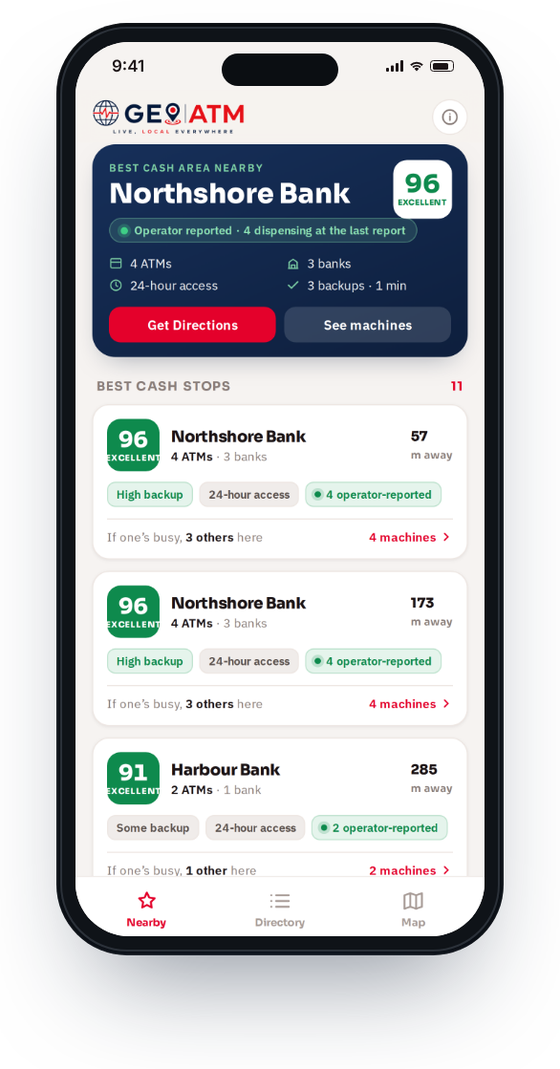
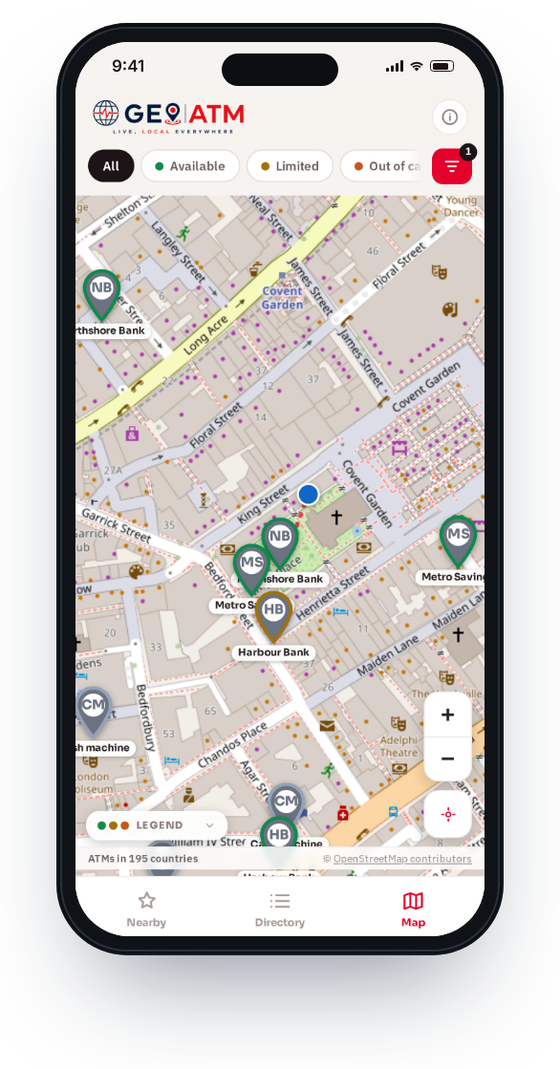
Homepage hero: the real finder over a real map
The phone shows the finder giving directions to the best cash area on real
Covent Garden streets, each machine pinned by its bank; behind it, a real
map of central London with GeoATM pins and dotted links either side, as in
the original design. The footer credits OpenStreetMap and says the app
pictures use illustrative data.

Claude-Session: https://claude.ai/code/session_0169CUDiNCmGAFL1C6qESzbd

diff --git a/app/globals.css b/app/globals.css
@@ -93,9 +93,9 @@ img { max-width: 100%; display: block; }
    centre is at (350.5, 267.7) of the 711 x 535 picture. */
 .hero-scene {
   position: absolute; z-index: 0; left: calc(50% - 350.5px); top: calc(50% - 267.7px); width: 711px; height: 535px;
-  background: url(/hero-scene.webp) 0 0 / 100% 100% no-repeat; pointer-events: none;
-  -webkit-mask-image: linear-gradient(90deg, transparent 0%, #000 14%, #000 90%, transparent 100%);
-  mask-image: linear-gradient(90deg, transparent 0%, #000 14%, #000 90%, transparent 100%);
+  background: url(/home/london-map.jpg) center / cover no-repeat; pointer-events: none;
+  -webkit-mask-image: radial-gradient(ellipse 50% 50% at 50% 50%, #000 70%, transparent 100%);
+  mask-image: radial-gradient(ellipse 50% 50% at 50% 50%, #000 70%, transparent 100%);
 }
 
 .phone {
@@ -404,4 +404,4 @@ img { max-width: 100%; display: block; }
 .pp-devices figcaption { margin-top: 6px; font-size: 12px; color: var(--dim); }
 
 /* Homepage hero: the real finder on a phone */
-.hero-phone { width: 300px; max-width: 70vw; height: auto; display: block; margin: 0 auto; }
+.hero-phone { position: relative; z-index: 2; width: 270px; max-width: 64vw; height: auto; display: block; margin: 0 auto; filter: drop-shadow(0 30px 40px rgba(18,32,54,.28)); }

diff --git a/components/SiteFooter.tsx b/components/SiteFooter.tsx
@@ -71,6 +71,8 @@ export default function SiteFooter() {
             <br />
             <br />
             © 2026 Tumblehill Holdings LLC. All rights reserved.
+            <br />
+            Maps © <a href="https://www.openstreetmap.org/copyright" target="_blank" rel="noopener noreferrer">OpenStreetMap</a> contributors. App pictures use illustrative data.
           </div>
         </div>
       </footer>

diff --git a/app/page.tsx b/app/page.tsx
@@ -99,6 +99,8 @@ export default function HomePage() {
             </div>
           </div>
           <div className="hero-visual" aria-hidden>
+            {/* A real map of central London, with GeoATM pins at real places */}
+            <div className="hero-scene" />
             <Image
               src="/home/geoatm-finder-phone.png"
               alt=""
